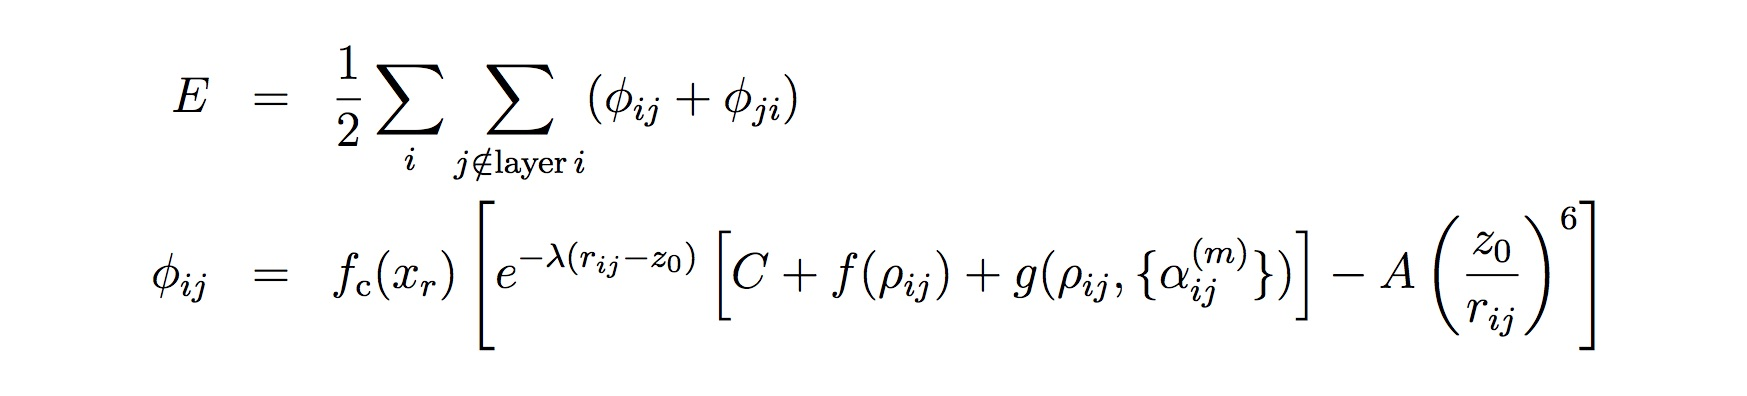
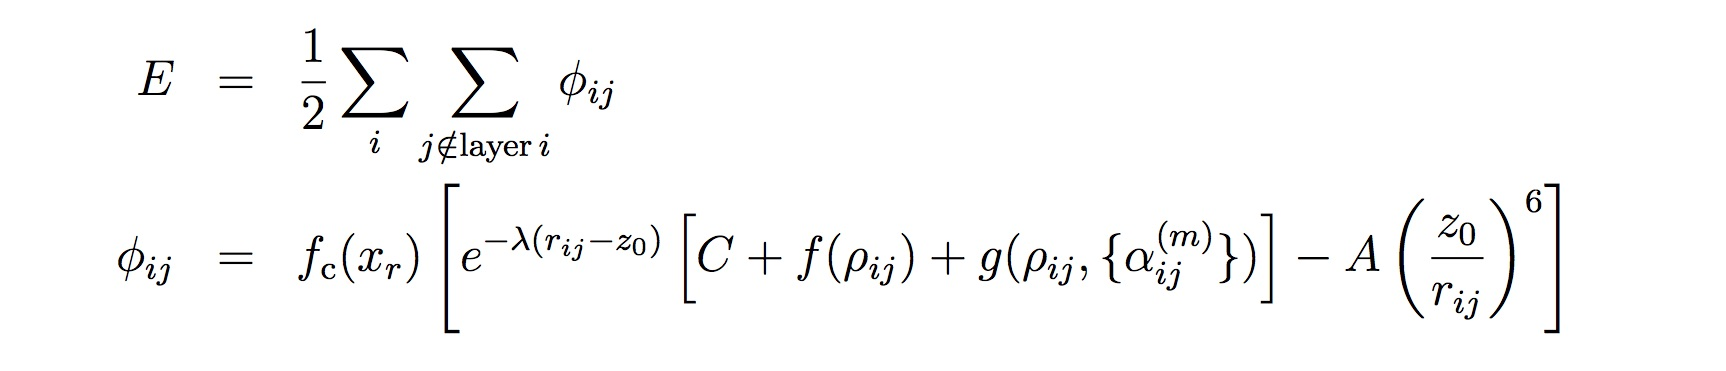
Update equations

diff --git a/doc/src/Eqs/pair_drip.tex b/doc/src/Eqs/pair_drip.tex
@@ -5,8 +5,7 @@
 \begin{document}
 
 \begin{eqnarray*}
-E &=& \frac{1}{2} \sum_{i} \sum_{j\notin\text{layer}\,i} (\phi_{ij} + \phi_{ji}) \\
-\phi_{ij} &=& f_\text{c}(x_r) \left[ e^{-\lambda(r_{ij} - z_0 )} \left[C+f(\rho_{ij})+  g(\rho_{ij}, \{\alpha_{ij}^{(m)}\}) \right]- A\left (\frac{z_0}{r_{ij}} \right)^6 \right] \\
+E &=& \frac{1}{2} \sum_{i} \sum_{j\notin\text{layer}\,i} \phi_{ij} \\\phi_{ij} &=& f_\text{c}(x_r) \left[ e^{-\lambda(r_{ij} - z_0 )} \left[C+f(\rho_{ij})+  g(\rho_{ij}, \{\alpha_{ij}^{(m)}\}) \right]- A\left (\frac{z_0}{r_{ij}} \right)^6 \right] \\
 \end{eqnarray*}  
 
 